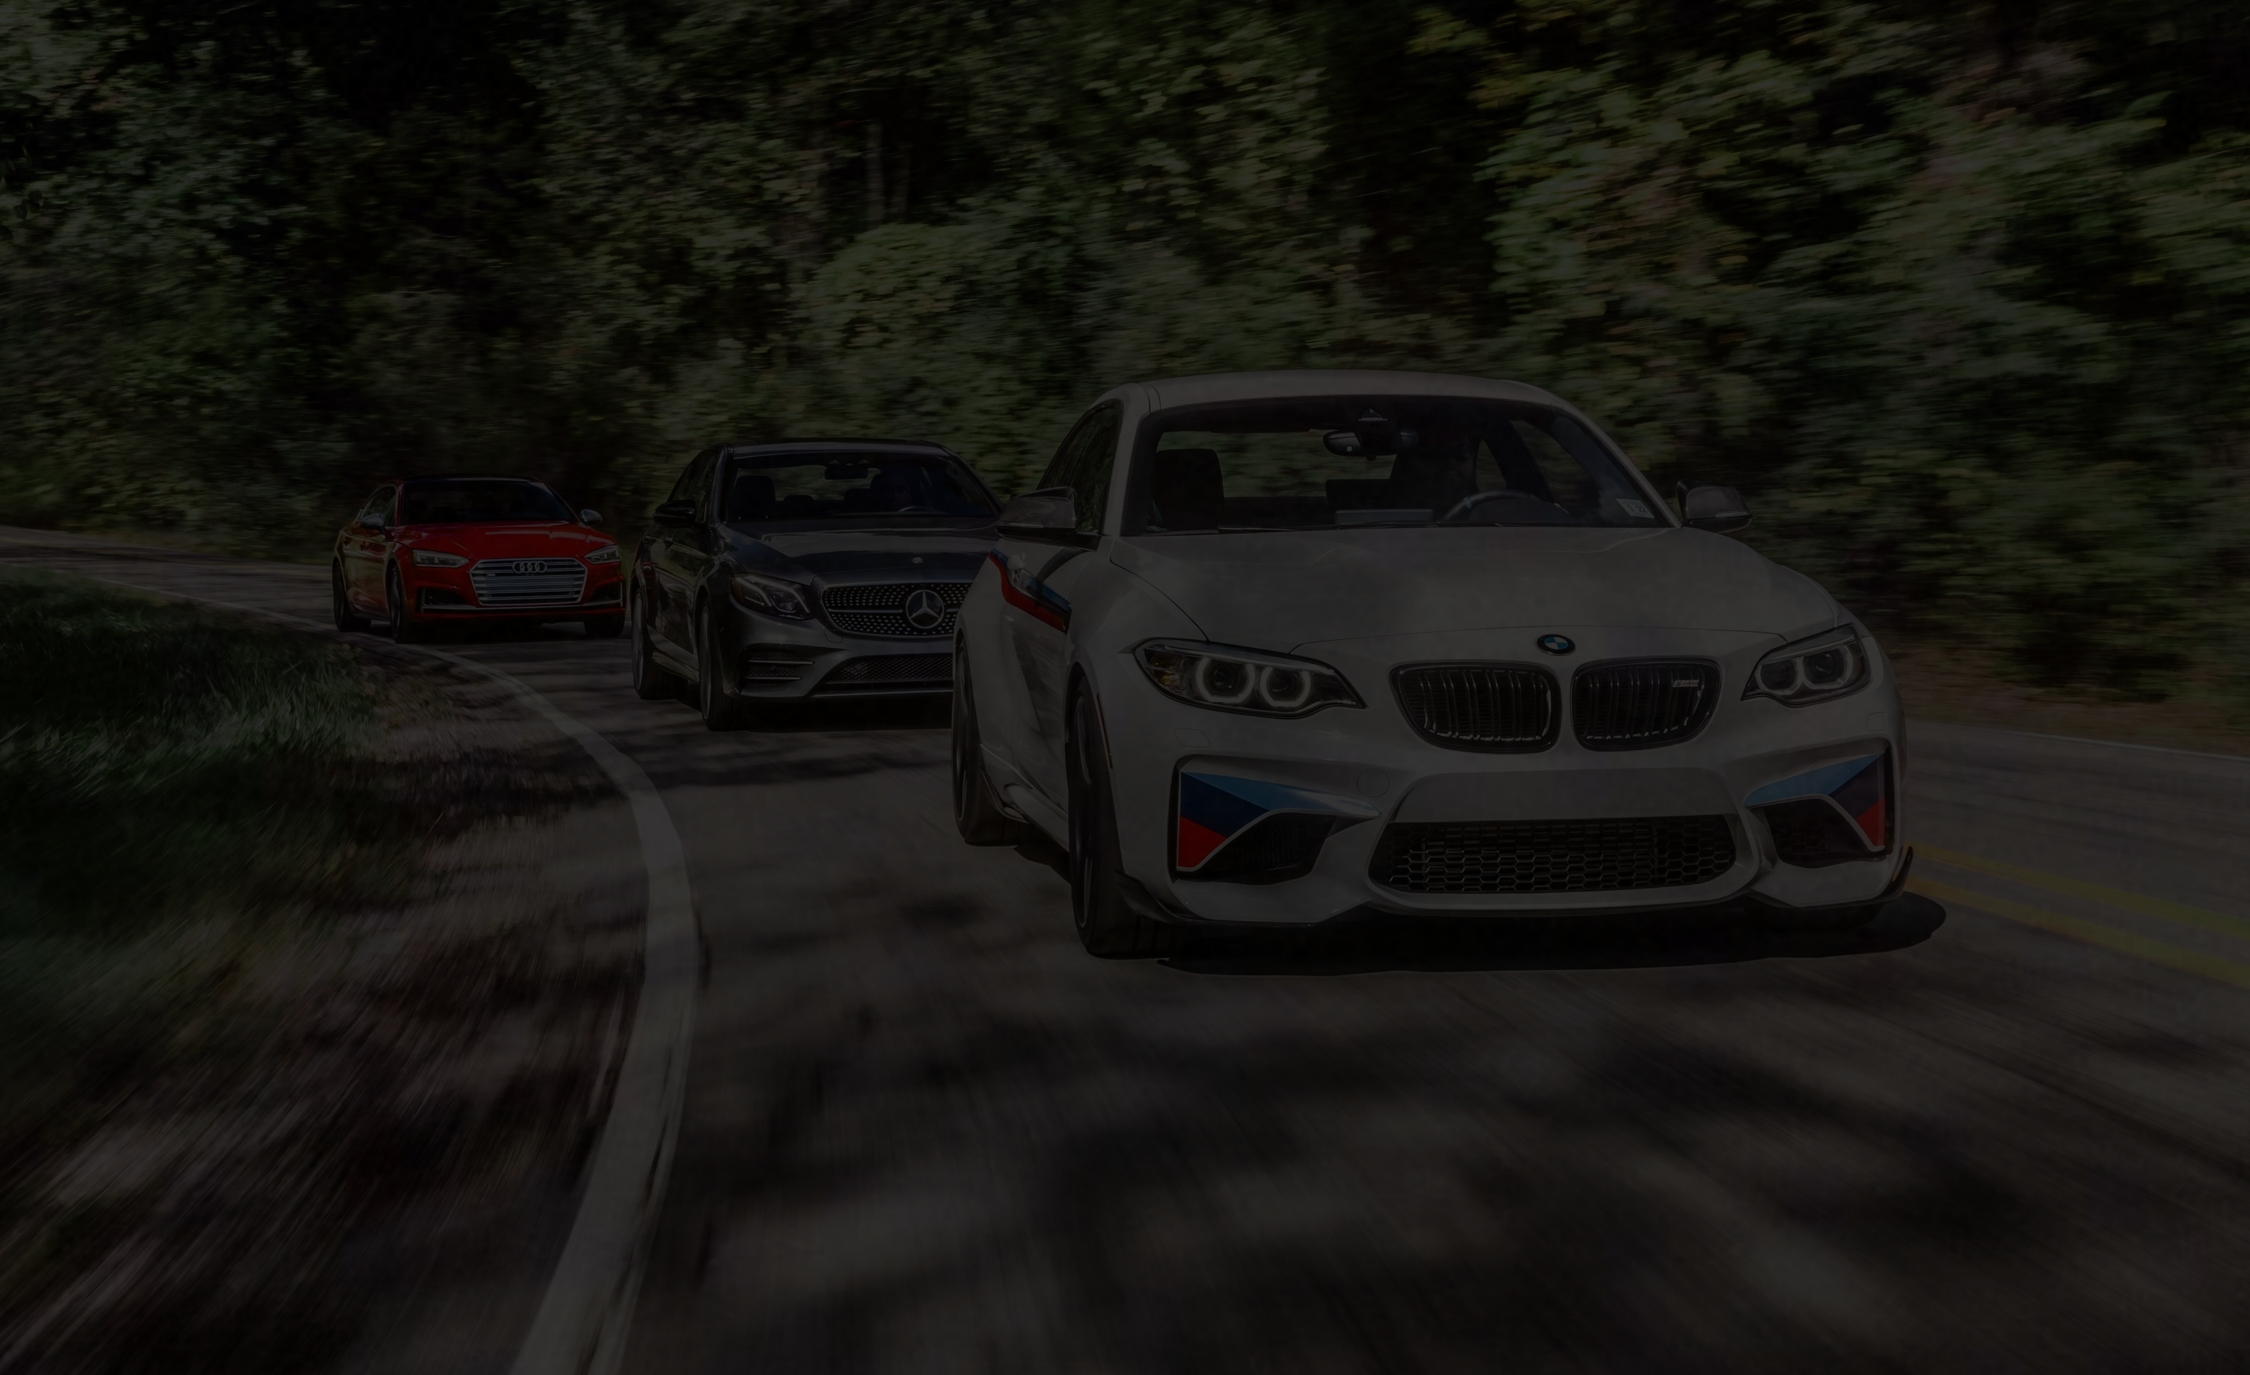
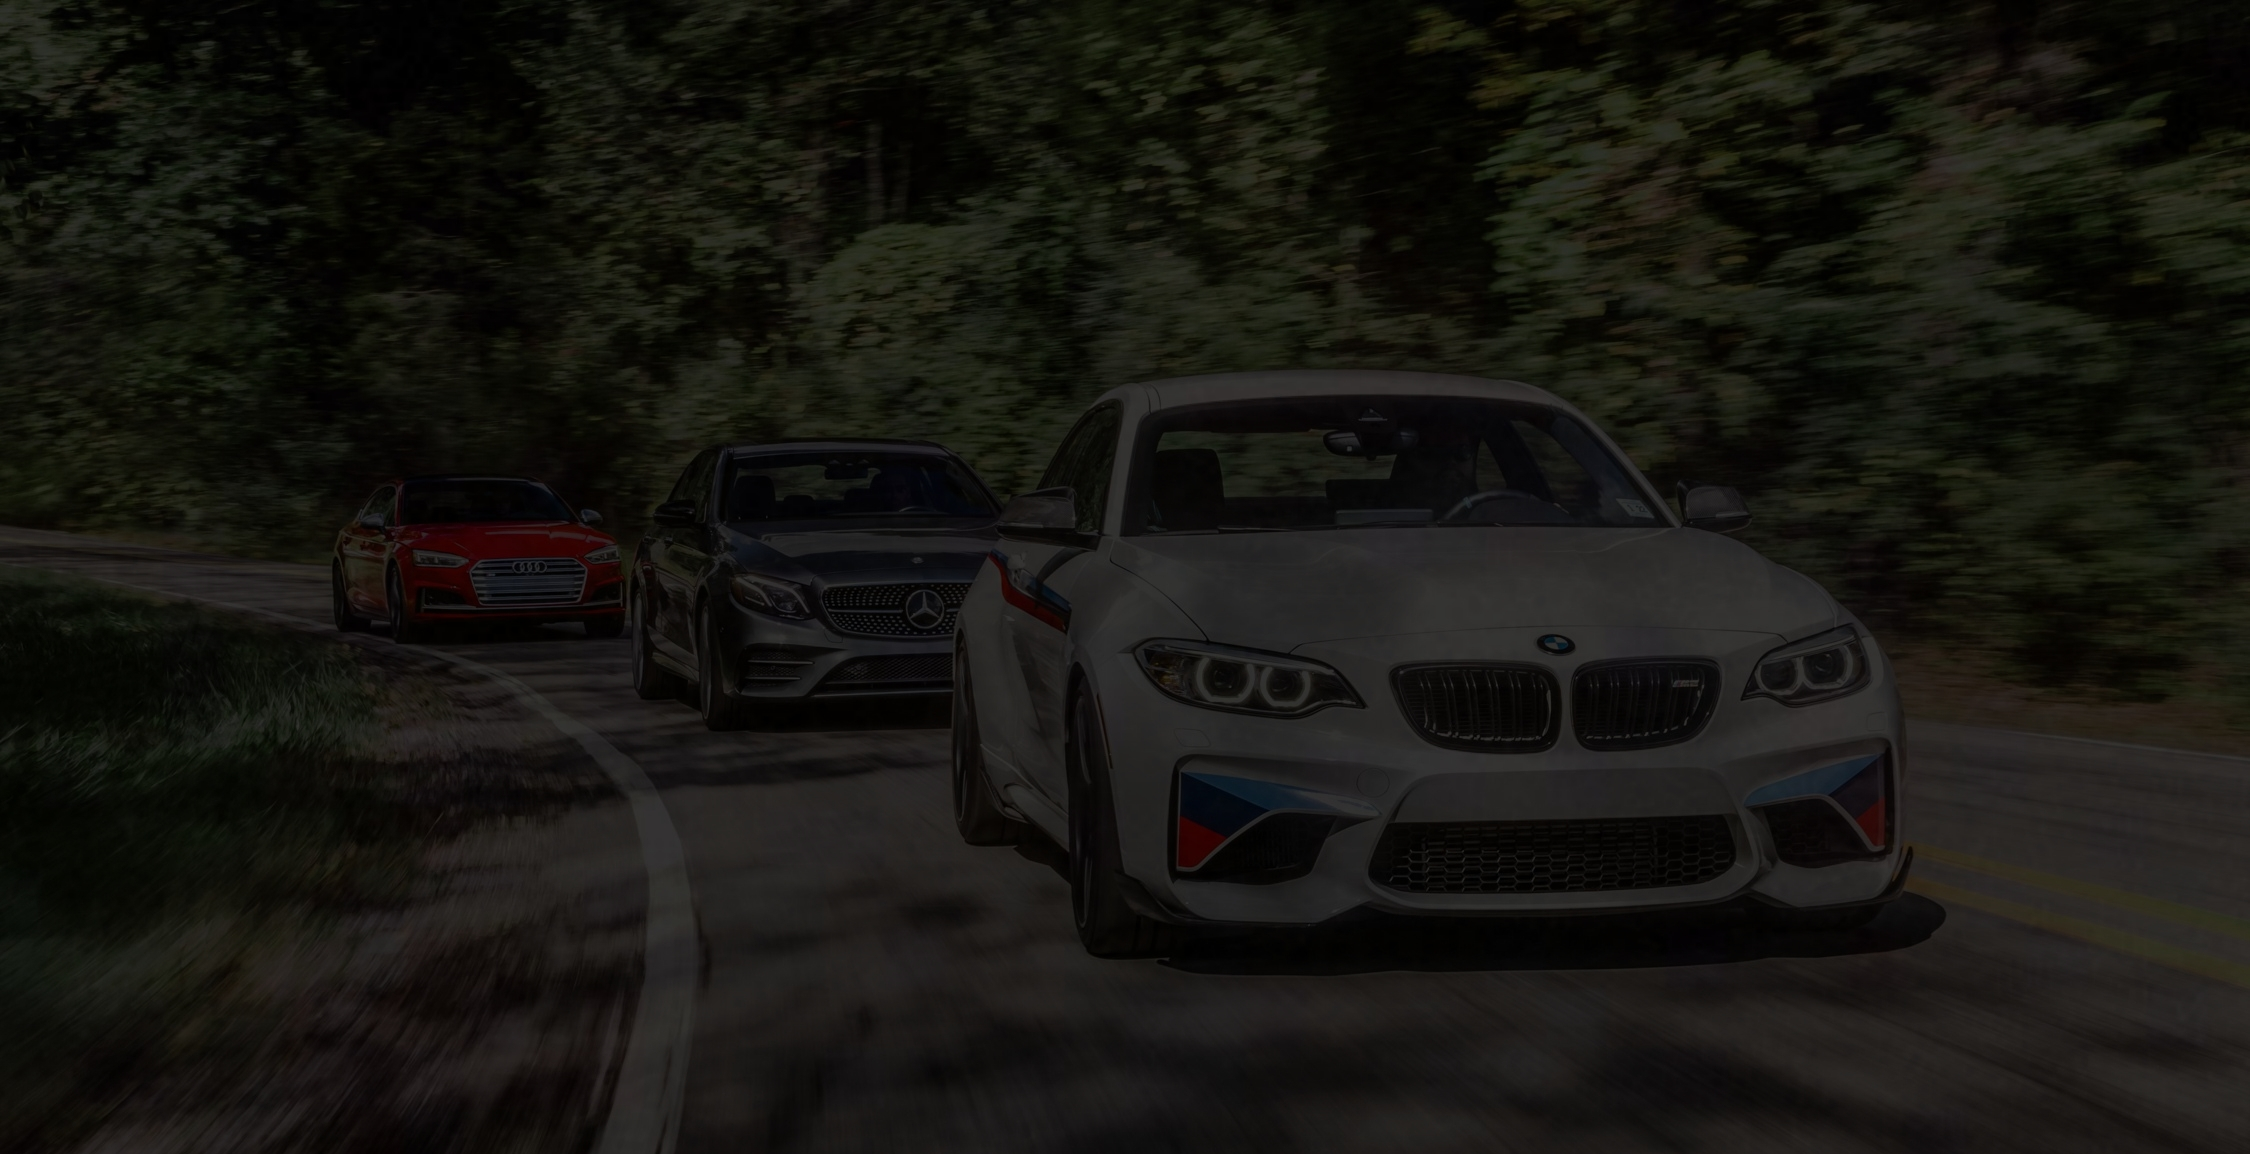
02.19

diff --git a/index/rolunk.html b/index/rolunk.html
@@ -6,15 +6,17 @@
     <meta http-equiv="X-UA-Compatible" content="IE=edge">
     <meta name="viewport" content="width=device-width, initial-scale=1.0">
     <link rel="stylesheet" href="../css/főoldal.css">
-    <link rel="stylesheet" href="../css/bootstrap.min.css">
+    <link rel="stylesheet" href="../css/bootstrap.min.">
     <title>V-Technzsr</title>
     
 </head>
 
 
-
 <body>
     <ul>
+<div class="container">
+   <img src="Picsart_23-02-18_11-19-12-844.jpg" alt="" class="responsive">
+   <div class="jobbfent">
         <li><a href="#K&N"><button>
             <span>K&N</span>
           </button></a></li>
@@ -33,16 +35,20 @@
         <li><a href="#MS"><button>
             <span>MS</span>
           </button></a></li>
-        <li><a href="#Rolunk"><button>
+        <li><a href="rolunk.html"><button>
             <span>Rólunk</span>
           </button></a></li>
-        <li><a href="#Elerhetoseg"><button>
-            <span>Elérhetőség</span>
+        <li><a href="rolunk.html"><button>
+            <span>  Elérhetőség</span>
           </button></a></li>
-          <a href="főoldal.html"> <img src="logo.png" width="" height="70"></a>
-          
+          </div>
+          <div class="balfent">
+          <a href="főoldal.html"></a><img src="logo.png" width="" height="70">
+          </div>
 
     </ul>
+
+</div>
 
 
         <h2>Rólunk </h2>

diff --git a/css/főoldal.css b/css/főoldal.css
@@ -18,14 +18,9 @@ li {
   
   }
 
-ul {
-    list-style-type: none;
-    margin: 0;
-    padding: 0;
-    overflow: hidden;
-    background-color: #333;
-    text-align: left;
-  }
+img{
+  float: center;
+}
   
 li a {
     display: block;
@@ -40,6 +35,25 @@ p {
     font-family: Arial, Helvetica, sans-serif;
     font-size: 18px;
   }
+
+.container {
+  position: relative;
+  text-align: center;
+  color: white;
+}
+
+.jobbfent {
+  position: absolute;
+  top: 8px;
+  right: 16px;
+}
+
+.balfent{
+  position: absolute;
+  top: 8px;
+  left: 16px;
+
+}
 
 *{
  margin: 0px;
@@ -90,7 +104,7 @@ h1{
 
 button {
  background-color: #444141;
- border-radius: 4px;
+ border-radius: 30px;
  color: #fff;
  cursor: pointer;
  padding: 15px 30px;
@@ -110,8 +124,4 @@ button:hover {
  to {
   background-position: 20vw;
  }
-}
-
-img{
-  
 }

diff --git a/index/főoldal.html b/index/főoldal.html
@@ -14,7 +14,9 @@
 
 <body>
     <ul>
-
+<div class="container">
+   <img src="Picsart_23-02-18_11-19-12-844.jpg" alt="" class="responsive">
+   <div class="jobbfent">
         <li><a href="#K&N"><button>
             <span>K&N</span>
           </button></a></li>
@@ -39,10 +41,14 @@
         <li><a href="rolunk.html"><button>
             <span>  Elérhetőség</span>
           </button></a></li>
+          </div>
+          <div class="balfent">
           <img src="logo.png" width="" height="70">
+          </div>
 
     </ul>
-<img src="Picsart_23-02-18_11-19-12-844.jpg" alt="" class="responsive">
+
+</div>
 
 
 <div class="main">
